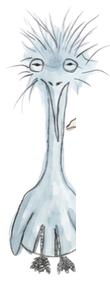
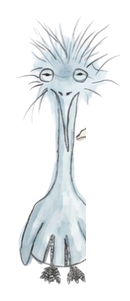
Clean up Ask Me Anything section (#1)
- Drop "comic-strip style" and "Answers are placeholders for now" from
  the AMA intro text, keeping "Click a question to see the answer."
- Remove the "What is fractional design leadership?" question entirely
  (chip button + its Q&A entry).
- Update the "What have you worked on recently?" answer to the
  UCalgary academic student probation initiative, the communication
  media film mural, and the Orca 2026 acrylic painting.
- Fix the AMA comic characters getting cut off at their frame: erased
  stray bleed-in fragments from a neighboring sprite baked into
  char-crocodile.png, and added transparent padding to all three
  character PNGs so the artwork never sits flush against the canvas
  edge.

diff --git a/index.html b/index.html
@@ -305,12 +305,11 @@
       <div class="contact-ama" id="ama">
         <span class="section-kicker">Ask Me Anything</span>
         <h3>Curious about something? Ask away.</h3>
-        <p class="muted">Click a question to see the answer, comic-strip style. Answers are placeholders for now.</p>
+        <p class="muted">Click a question to see the answer.</p>
 
         <div class="ama-grid">
           <button class="ama-chip" data-qa="pricing">What is your pricing structure?</button>
           <button class="ama-chip" data-qa="location">Where are you based?</button>
-          <button class="ama-chip" data-qa="leadership">What is fractional design leadership?</button>
           <button class="ama-chip" data-qa="recent">What have you worked on recently?</button>
           <button class="ama-chip" data-qa="engagement">How do you typically start a new engagement?</button>
         </div>

diff --git a/js/ama.js b/js/ama.js
@@ -24,15 +24,9 @@
       asker: "crocodile",
       answerer: "frog"
     },
-    leadership: {
-      q: "What is fractional design leadership?",
-      a: "It's when a client brings me on part-time to guide the creative direction of a project without hiring a full-time designer — think of it as renting an art director for exactly as long as you need one.",
-      asker: "frog",
-      answerer: "bird"
-    },
     recent: {
       q: "What have you worked on recently?",
-      a: "Most recently, logo and banner design for UCalgary's Indigenous Student Resource Page, plus a big mural piece and a new acrylic painting, Orca 2026.",
+      a: "Most recently, I have been working on the University of Calgary's academic student probation initiative, as well as a communication media film mural, as well as Orca 2026 acrylic painting.",
       asker: "bird",
       answerer: "frog"
     },
